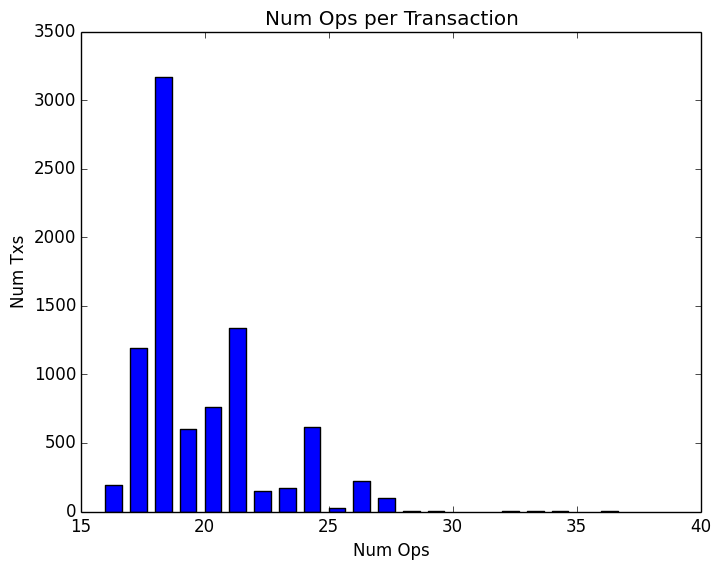
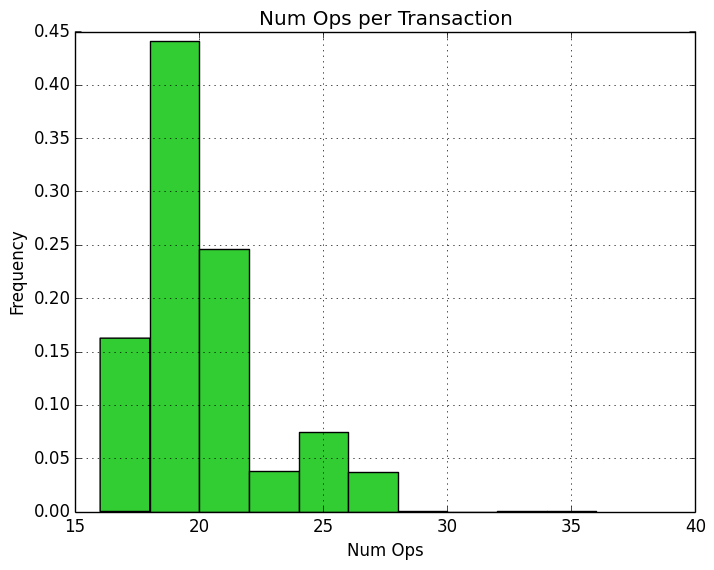
Convert ops_per_tx bar graph to histogram

diff --git a/generator/src/main/java/org/corfudb/generator/profiler/profiler.py b/generator/src/main/java/org/corfudb/generator/profiler/profiler.py
@@ -111,7 +111,7 @@ def count_seq_calls():
 def count_ops_per_tx():
     '''
     Answers the query: how many operations are performed per transaction?
-    Creates a bar chart
+    Creates a histogram
     '''
     print 3
     # Count number of ops in every transaction
@@ -136,14 +136,28 @@ def count_ops_per_tx():
     x = num_num_ops.keys()
     y = num_num_ops.values()
 
-    # Create bar chart
-    width = 1 / 1.5
-    plt.bar(x, y, width, color="blue")
-    plt.title("Num Ops per Transaction")
-    plt.xlabel("Num Ops")
-    plt.ylabel("Num Txs")
+    # Create histogram
+    data = []
+    for num in num_num_ops:
+        for i in range(num_num_ops[num]):
+            data += [num]
+    weights = np.ones_like(data) / float(len(data))
+    plt.hist(data, weights=weights, facecolor='limegreen')
+
+    plt.xlabel('Num Ops')
+    plt.ylabel('Frequency')
+    plt.title('Num Ops per Transaction')
+    plt.grid(True)
     plt.savefig(output_path + "count_ops_per_tx.png", bbox_inches='tight')
     plt.clf()
+
+
+def count_table_ops():
+    '''
+    Answers query: how many read/write table operations are performed on each table?
+    Creates a horizontal stacked bar chart
+    '''
+    print 3.5
 
 
 def count_table_ops_per_tx(access_ops, mutate_ops):  # access_ops, mutate_ops = list of strings with names of ops
@@ -326,7 +340,7 @@ def count_all_methods():
     Answers the query: how many times was each method called w.r.t. the total number of calls?
     Creates a pie chart
     '''
-    print 6.5
+    print 7
     # Count number of times each operation was called
     counts = {}  # op name --> count
     for point in points:
@@ -366,12 +380,57 @@ def count_all_methods():
     plt.clf()
 
 
+def count_all_methods_tx():
+    '''
+    Answers the query: how many times was each method called in a transaction w.r.t. the total number of calls?
+    Creates a pie chart
+    '''
+    print 8
+    # Count number of times each operation was called
+    counts = {}  # op name --> count
+    for point in points:
+        if "(tx)" in point and "[method]" in point:
+            if get_method_name(point) not in counts:
+                counts[get_method_name(point)] = 1
+            else:
+                counts[get_method_name(point)] += 1
+
+    # Sort values and labels in ascending order by value
+    values = []
+    labels = []
+    other = 0
+    total_count = sum(counts.values())
+    for key, value in sorted(counts.iteritems(), key=lambda (k, v): (v, k)):
+        if value / (1.0 * total_count) < 0.015:
+            print(value)
+            other += value
+            continue
+        labels += [key + "\n(" + str(value) + ")"]  # label = name of op + num of occurrences [string]
+        values += [value]  # value = time taken by op
+    labels += ["Other" + "\n(" + str(other) + ")"]
+    values += [other]
+
+    # Create pie chart
+    colors = plt.cm.Set2(np.array([(i - len(counts) / 16) / (len(counts) * 2.0) for i in range(0, 2 * len(counts), 2)]))
+
+    fig = plt.figure(figsize=[10, 10])
+    ax = fig.add_subplot(111)
+    pie_wedge_collection = ax.pie(values, colors=colors, labels=labels, pctdistance=0.7, radius=3, autopct='%1.1f%%')
+    plt.axis('equal')
+    for pie_wedge in pie_wedge_collection[0]:
+        pie_wedge.set_edgecolor('white')
+    fig.text(.5, .05, "Total Count: " + str(total_count) + " ops", ha='center', fontweight="bold")
+
+    plt.savefig(output_path + "count_all_methods_tx.png", bbox_inches='tight')
+    plt.clf()
+
+
 def count_all_methods_by_id(table_id):
     '''
     Answers the query: how many times was each method called for a given table w.r.t. the total number of calls?
     Creates a pie chart
     '''
-    print 6.75
+    print 9
     # Count number of times each operation was called
     counts = {}  # op name --> count
     for point in points:
@@ -416,7 +475,7 @@ def count_all_ops_time():
     Answers the query: how much time did a single call of each operation take on average?
     Creates a box plot and a bar chart
     '''
-    print 7
+    print 10
     # Count total time taken by each op
     counts = {}  # op name --> list of durations (ms)
     for point in points:
@@ -488,7 +547,7 @@ def count_all_ops_time_by_tx():
     w.r.t. the total runtime of all transactions?
     Creates a pie chart and two bar charts
     '''
-    print 8
+    print 11
     # Count total time taken by each op w/i each tx
     # NOT CORRECT for same reason as above!
     txs = []  # list of lists, txs[i] = np.array of how much time each op takes in tx i
@@ -540,7 +599,7 @@ def count_reads():
     Answers the query: how many reads (both tx and non-tx) are done per millisecond?
     Creates a scatter plot, with both tx reads and non-tx reads
     '''
-    print 9
+    print 12
     # Count tx reads
     counts_tx = {}  # ms interval --> count of tx reads
     for point in points:
@@ -586,12 +645,13 @@ def count_reads():
 setup()
 # count_active_threads()
 # count_seq_calls()
-# count_ops_per_tx()
+count_ops_per_tx()
 # count_table_ops_per_tx(["containsKey"], ["put"])
 # count_id_table_ops_per_tx(["containsKey"], ["put"], "7c4f2940-7893-3334-a6cb-7a87bf045c0d")
-count_all_ops()
-count_all_methods()
-count_all_methods_by_id("7c4f2940-7893-3334-a6cb-7a87bf045c0d")
+# count_all_ops()
+# count_all_methods()
+# count_all_methods_tx()
+# count_all_methods_by_id("7c4f2940-7893-3334-a6cb-7a87bf045c0d")
 # count_all_ops_time()
 # count_all_ops_time_by_tx()
 # count_reads()
